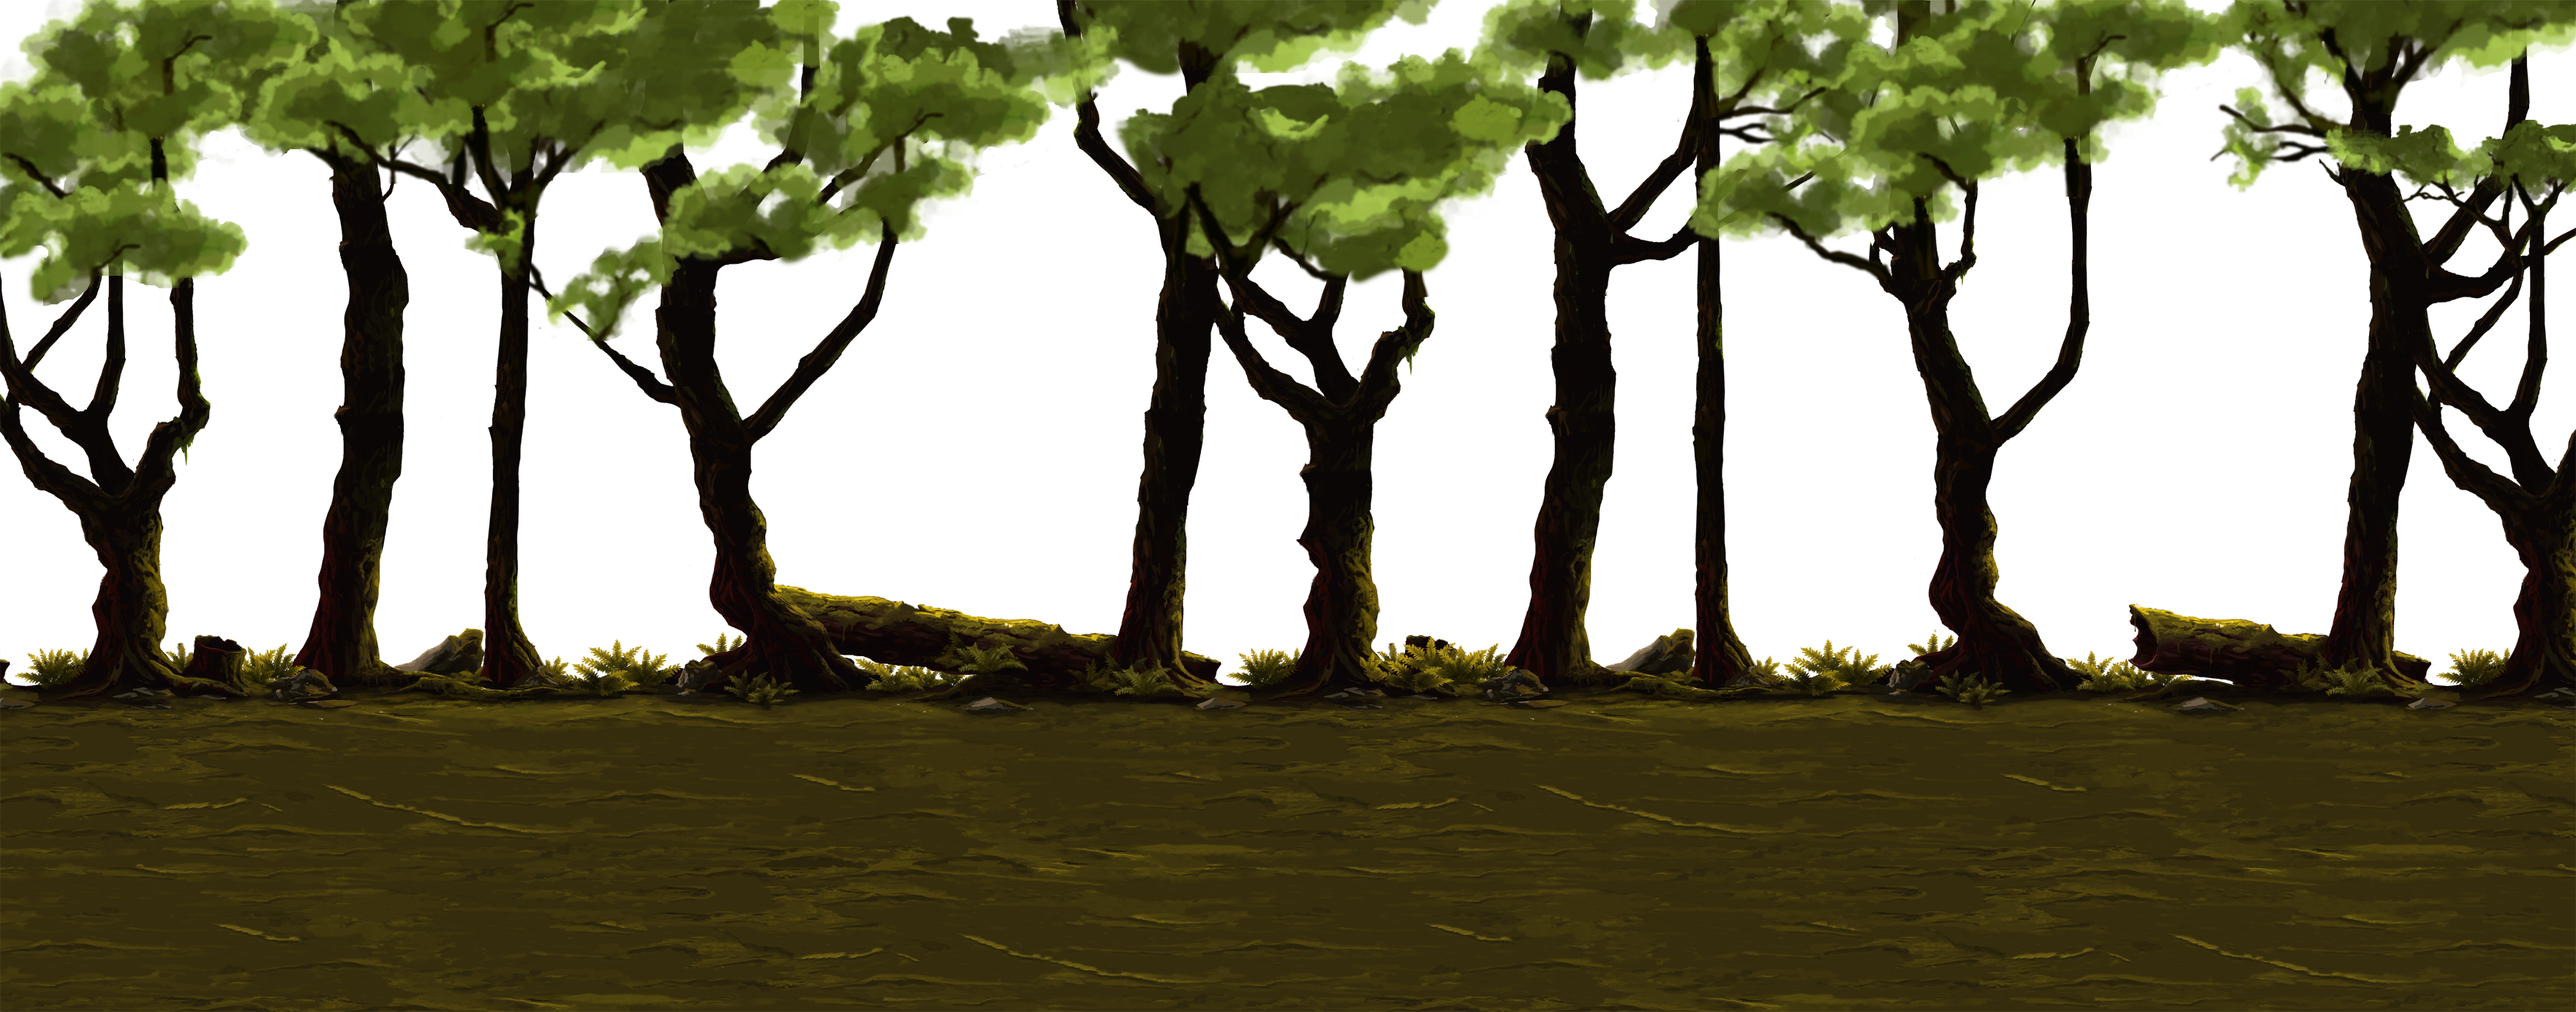
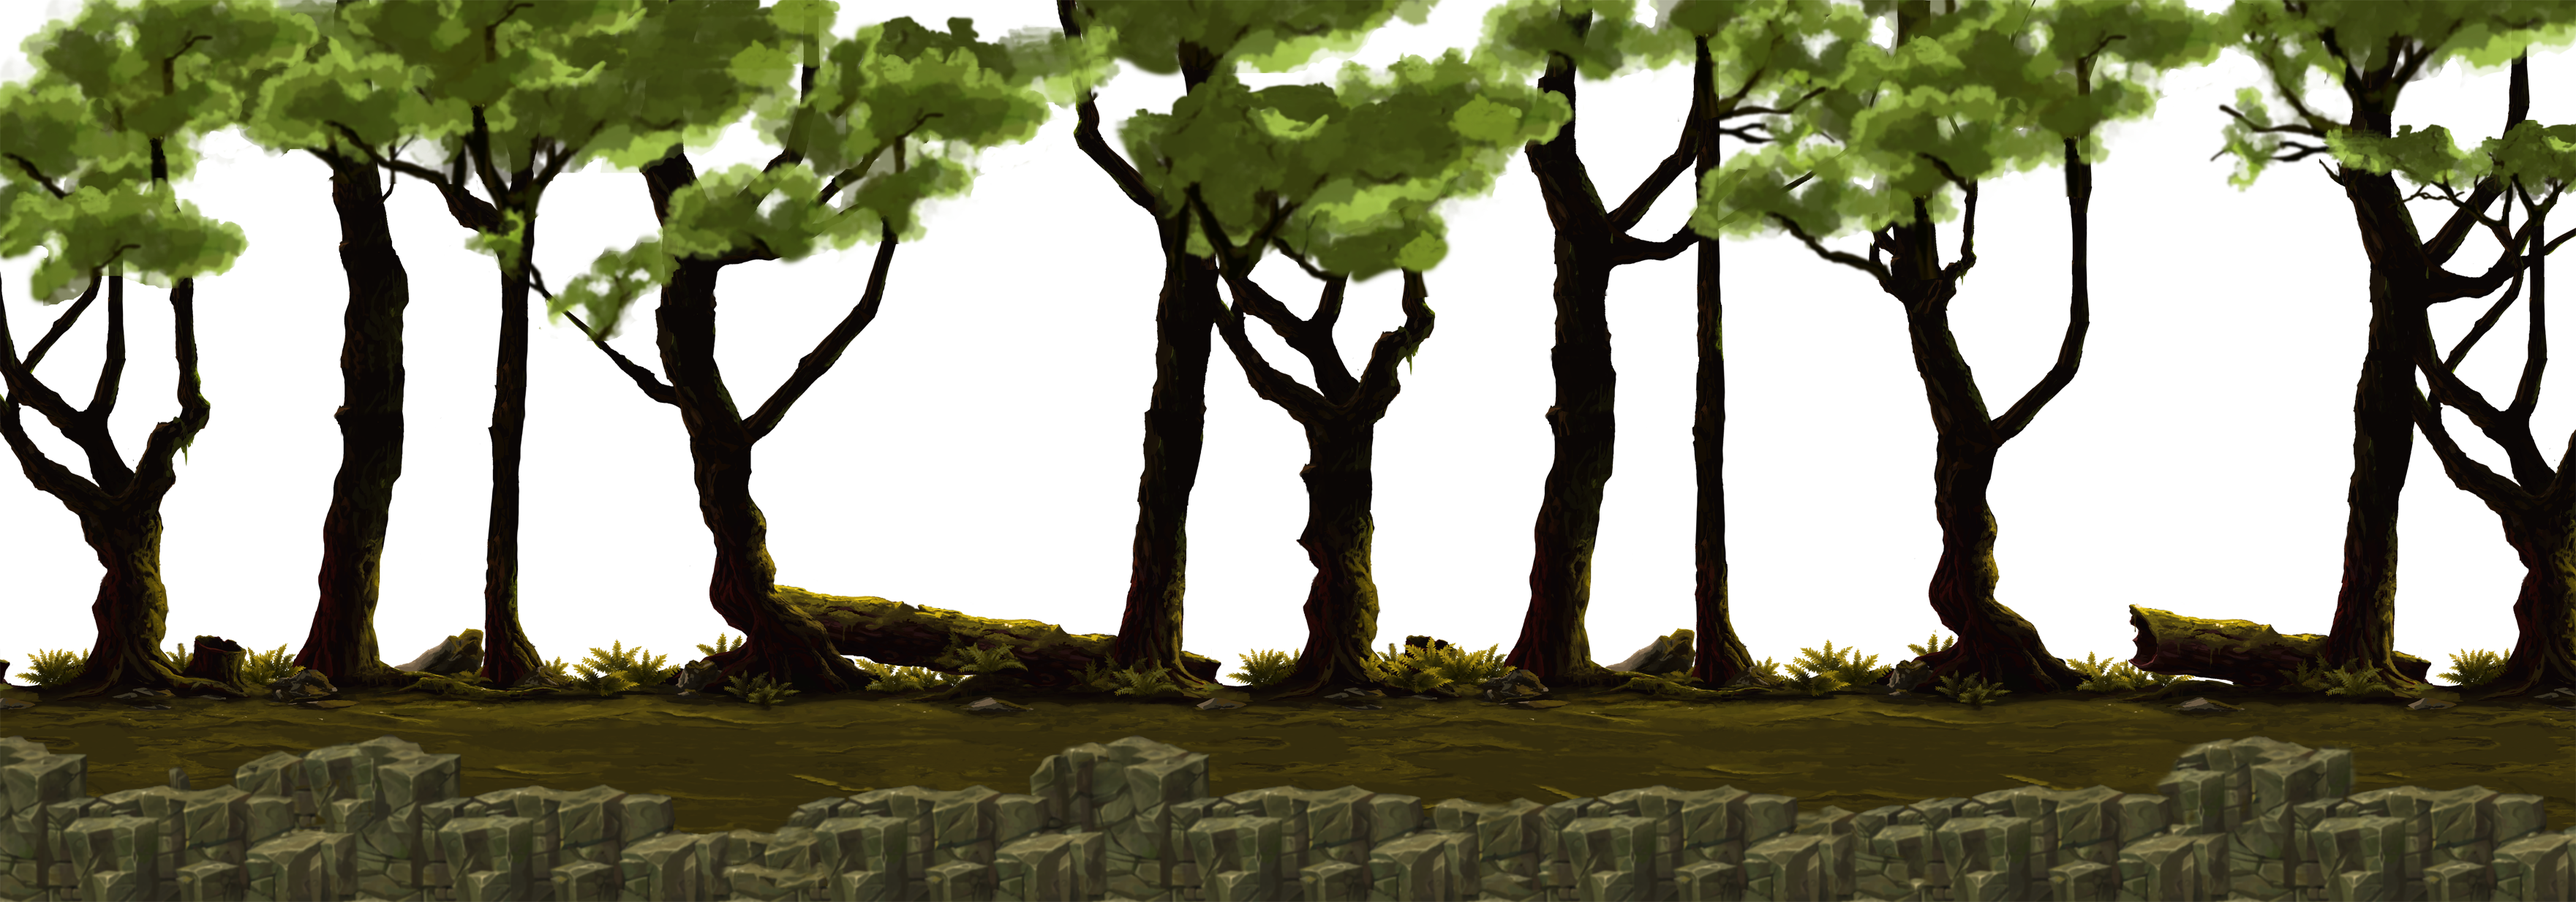
changed background and added top layer tiling below the foreground

diff --git a/src/Gameplay/Gameplay.java b/src/Gameplay/Gameplay.java
@@ -6,6 +6,7 @@ import Importer.ImageResource;
 import Menus.Gamepad;
 import Menus.Main;
 import Util.DebugEnum;
+import Util.Print;
 import Util.Reactor;
 import Util.Vec2;
 import Gameplay.Entity.ShapeEnum;
@@ -49,9 +50,11 @@ public class Gameplay implements Reactor
     private int[] backgroundLayerOffsetY = new int[BACKGROUND_LAYER_COUNT];
     private Image textureBlock = new Image("/Image/woodTexture.png");
     private Image textureShadow = new Image("/Image/shadowTexture.png");
+    private Image textureGround = new Image("/Image/ground.png");
 
     private ImagePattern texturePatternBlock;
     private ImagePattern texturePatternShadow;
+    private ImagePattern texturePatternGround;
 
     private Image textureWater0 = new Image("/Image/water0.png");
     private Image textureWater1 = new Image("/Image/water1.png");
@@ -70,6 +73,7 @@ public class Gameplay implements Reactor
         for (int i=0; i<BACKGROUND_LAYER_COUNT; i++)
         {
             String name = "/Image/MossyWoods-Background_"+i+".png";
+            Print.purple("Loading Image: ["+name +"]");
             backgroundLayer[i] = new Image(name);
         }
         backgroundLayerOffsetY[0] = 0;
@@ -566,14 +570,21 @@ public class Gameplay implements Reactor
     private void renderBackground()
     {
         /* Clear canvas */
-        gfx.clearRect(0, 0, viewWidth, viewHeight);
+        //gfx.clearRect(0, 0, viewWidth, viewHeight);
 
+        double layer3Left = 0;
+        double layer3Bottom = 0;
         for (int i=0; i<BACKGROUND_LAYER_COUNT; i++)
         {
             double layerZoom = cameraZoom/(1+BACKGROUND_LAYER_COUNT-i);
             double x = 100+ viewWidth/2 - backgroundLayer[0].getWidth()/2 - (cameraPosX + cameraOffsetX)*layerZoom;
             double y = -120;
             if (i>0) y = (y - (cameraPosY + cameraOffsetY)*layerZoom/2) - backgroundLayerOffsetY[i];
+            if (i == 3)
+            {
+                layer3Left   = x;
+                layer3Bottom = y+backgroundLayer[i].getHeight()-1;
+            }
             gfx.drawImage(backgroundLayer[i], x,y);
         }
 
@@ -581,6 +592,10 @@ public class Gameplay implements Reactor
         double offsetY = -(cameraPosY + cameraOffsetY)*cameraZoom;
         texturePatternBlock = new ImagePattern(textureBlock, offsetX, offsetY, 256, 175, false);
         texturePatternShadow = new ImagePattern(textureShadow, offsetX, offsetY, 400, 400, false);
+        texturePatternGround = new ImagePattern(textureGround, layer3Left, layer3Bottom, 512, 512, false);
+
+        gfx.setFill(texturePatternGround);
+        gfx.fillRect(layer3Left, layer3Bottom, viewWidth-layer3Left, viewHeight-layer3Bottom);
 
         long currentNano = System.nanoTime();
         float shift =  (float)(currentNano*0.5e-8);
